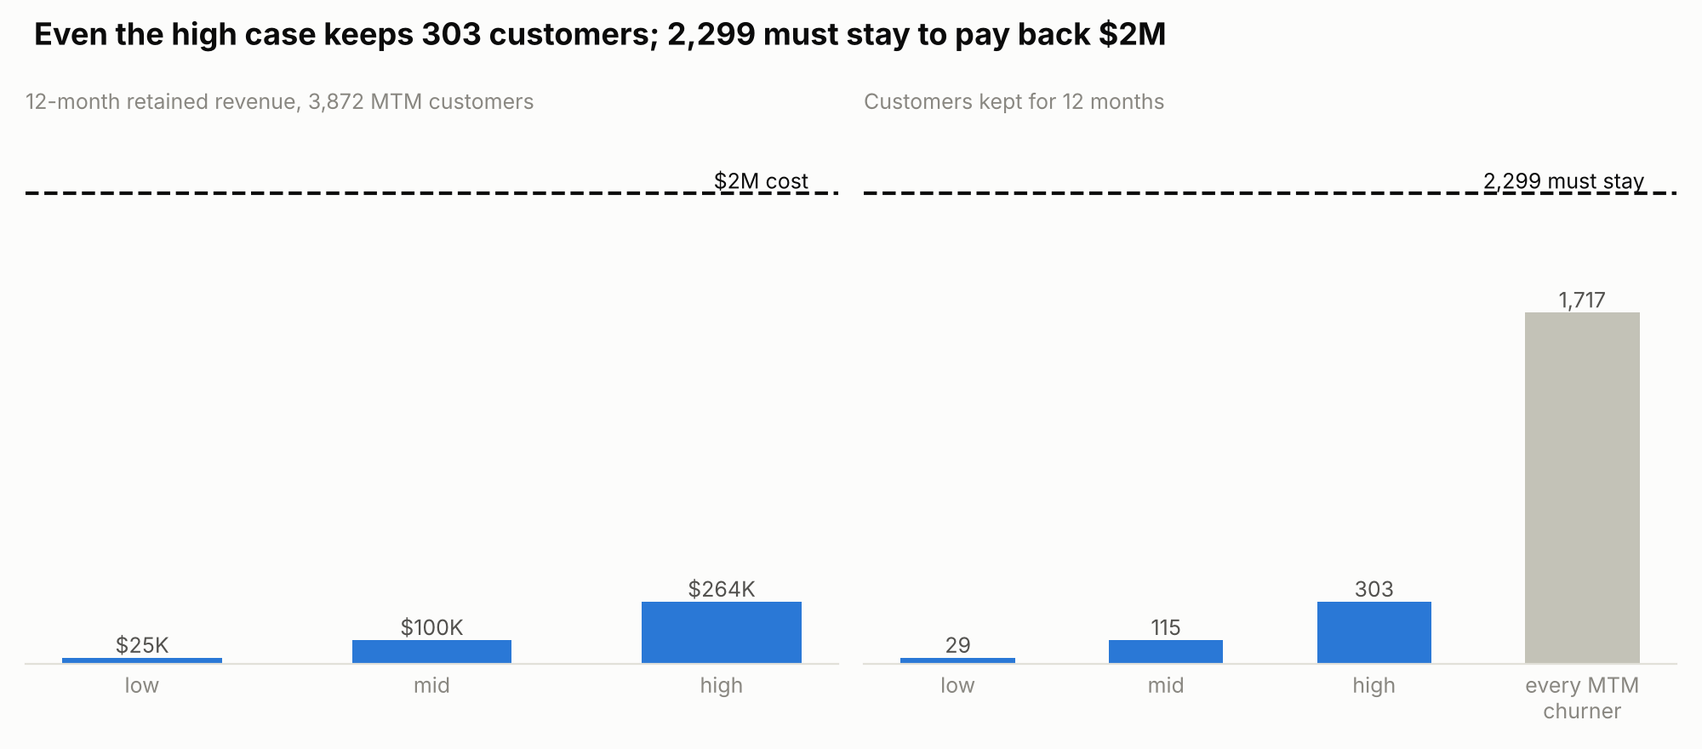
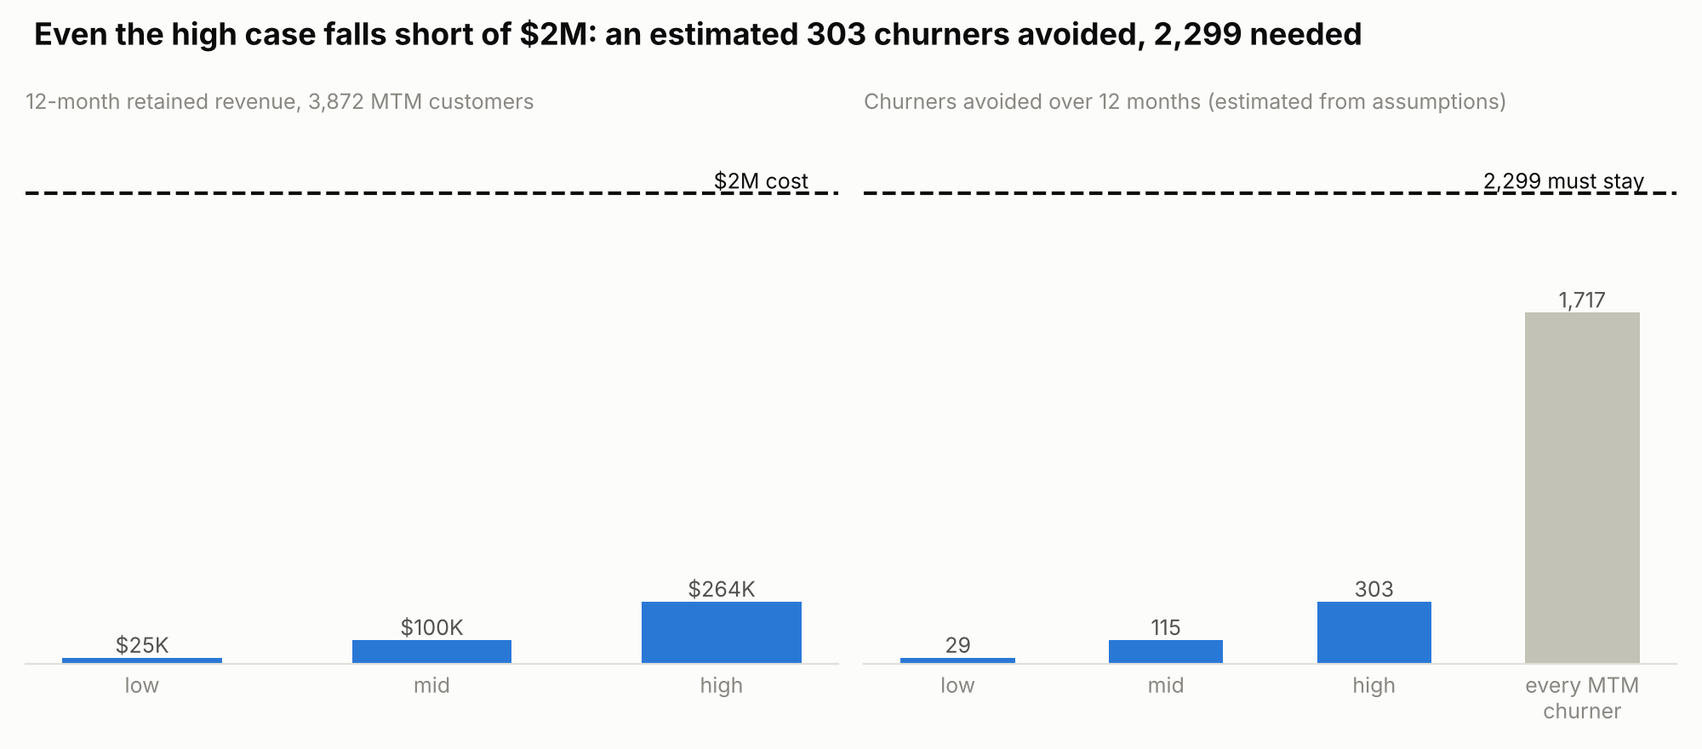
Address review: conditional recommendation, pilot size, tenure disclosures
- Headline now depends on the real month-to-month base, with ranges and a pilot size
- Drop unsupported low-case claim; report tenure-weighted gap and 61-72 month gap
- Soften wording, follow CLAUDE.md section order, add internet/payment gaps
- Sign-based within-contract driver directions; leak column rows_affected = 2,033

Claude-Session: https://claude.ai/code/session_01CdhEpiMWSa5yeb28nSnhaj

Changed region(s): [[0.186, 0.0307, 0.806, 0.0614], [0.527, 0.1227, 0.899, 0.1534]]

diff --git a/runs/2m-campaign/analysis.py b/runs/2m-campaign/analysis.py
@@ -6,6 +6,7 @@ Reads data/raw/telco_v2.csv (never writes there). Writes every deliverable in ru
 (user decision: "yes" is the main case; "no" is always computed as a sensitivity check).
 """
 import argparse, json
+from math import ceil
 from pathlib import Path
 
 import matplotlib
@@ -21,6 +22,8 @@ CASES = {"low": (0.10, 0.25), "mid": (0.20, 0.50), "high": (0.35, 0.75)}  # (tak
 MAX_REMOVED_SHARE = 0.05
 TOL = 0.20  # MonthlyCharges must be within +/-20% of TotalCharges / tenure
 TENURE_BINS, TENURE_LABELS = [-1, 12, 24, 48, 72], ["0-12", "13-24", "25-48", "49-72"]
+YEAR_BINS, YEAR_LABELS = [-1, 12, 24, 36, 48, 60, 72], ["0-12", "13-24", "25-36", "37-48", "49-60", "61-72"]
+Z_ALPHA, Z_POWER = 1.96, 0.8416  # pilot sizing: two-sided 5% test, 80% power
 
 # Chart palette (dataviz skill reference palette): accent, de-emphasis gray, ink, surface
 ACCENT, GRAY, INK, INK2, MUTED, GRID, SURFACE = ("#2a78d6", "#c3c2b7", "#0b0b0b", "#52514e",
@@ -130,6 +133,11 @@ def sizing(df):
                     "value_at_file_n": n * v_per_cust,
                     "value_per_1000_mtm": 1000 * v_per_cust,
                     "break_even_mtm_base": COST / v_per_cust}
+    # Pilot for the test_first range: offered vs not-offered groups, sized to detect the mid case's churn drop
+    # across everyone offered (take-up x share real x gap); two-sided 5% test, 80% power
+    p_off = churn_mtm - CASES["mid"][0] * CASES["mid"][1] * gap
+    pilot_per_group = ceil((Z_ALPHA + Z_POWER) ** 2 * (churn_mtm * (1 - churn_mtm) + p_off * (1 - p_off))
+                           / (churn_mtm - p_off) ** 2)
     if cases["low"]["value_at_file_n"] >= COST:
         rec = "fund"
     elif cases["high"]["value_at_file_n"] < COST:
@@ -140,6 +148,7 @@ def sizing(df):
             "churn_mtm": churn_mtm, "churn_1yr": churn_1yr, "gap": gap,
             "avg_monthly_charge_mtm_churners": arpu, "value_per_saved_customer_12m": value_per_saved,
             "customers_must_stay": must_stay,
+            "pilot_per_group": pilot_per_group, "pilot_churn_offered_mid_case": p_off,
             "max_value_if_all_mtm_churners_saved": int(mtm.churned.sum()) * value_per_saved,
             "cases": cases, "recommendation": rec}
 
@@ -204,9 +213,9 @@ def drivers(df):
                 mc = f(df).loc[d.index]  # focus group defined on the full data (same median)
                 if mc.sum() >= MIN_N and (~mc).sum() >= MIN_N:
                     within[c] = rate(d.churned[mc]) - rate(d.churned[~mc])
-        dirs = {direction(v) for v in within.values()}
+        signs = {v > 0 for v in within.values()}  # within contract: same sign in every contract type
         wc = ("not_checked" if var == "Contract" or not within else
-              dirs.pop() if len(dirs) == 1 and dirs <= {"higher", "lower"} else "mixed")
+              "higher" if signs == {True} else "lower" if signs == {False} else "mixed")
         rows.append({"variable": var, "focus_group": FOCUS_LABEL.get(var, "Yes"),
                      "churn_focus": rate(df.churned[m]), "churn_rest": rate(df.churned[~m]),
                      "diff_overall": diff, "direction_overall": direction(diff),
@@ -310,9 +319,9 @@ def chart_value(sz, path):
     style(a2)
     a2.set_yticks([])
     a2.set_ylim(0, sz["customers_must_stay"] * 1.15)
-    a2.set_title("Customers kept for 12 months", loc="left", fontsize=9, color=MUTED)
-    f.suptitle(f"Even the high case keeps {saved[2]:,.0f} customers; {sz['customers_must_stay']:,.0f} must stay "
-               "to pay back $2M", x=0.02, ha="left", fontsize=13, color=INK, weight="bold")
+    a2.set_title("Churners avoided over 12 months (estimated from assumptions)", loc="left", fontsize=9, color=MUTED)
+    f.suptitle(f"Even the high case falls short of $2M: an estimated {saved[2]:,.0f} churners avoided, "
+               f"{sz['customers_must_stay']:,.0f} needed", x=0.02, ha="left", fontsize=13, color=INK, weight="bold")
     f.tight_layout()
     f.savefig(path, dpi=200, facecolor=SURFACE)
     plt.close(f)
@@ -370,7 +379,8 @@ def write_findings(rec, counts, drv, path):
             {"column": "TotalCharges", "issue": "Stored as text; blanks are a single space (all tenure 0)",
              "rows_affected": counts["tc_blank"], "action": "Set to 0"},
             {"column": "RetentionOfferAccepted", "issue": "Filled only for churners; leaks the outcome",
-             "rows_affected": counts["raw_rows"], "action": "Column dropped from the analysis"},
+             "rows_affected": counts["leak_filled_churn_yes"] + counts["leak_filled_churn_no"],
+             "action": "Column dropped from the analysis"},
         ],
         "drivers": [{"variable": d["variable"], "direction_overall": d["direction_overall"],
                      "direction_within_contract": d["direction_within_contract"]} for d in drv],
@@ -379,39 +389,53 @@ def write_findings(rec, counts, drv, path):
 
 
 def write_recommendation(R, path):
-    s, s_no, c, tg = R["sizing"], R["sensitivity_dup_keep_no"]["sizing"], R["cleaning"], R["gap_within"]["tenure"]
+    s, s_no, c = R["sizing"], R["sensitivity_dup_keep_no"]["sizing"], R["cleaning"]
+    tg, ty = R["gap_within"]["tenure"], R["gap_within"]["tenure_12m_bins"]
     k = s["cases"]
-    REC = {"do_not_fund": "Do not fund", "fund": "Fund", "test_first": "Test first"}[s["recommendation"]]
-    t0, t3 = tg[TENURE_LABELS[0]], tg[TENURE_LABELS[-1]]
+    be_lo, be_mid, be_hi = (k[x]["break_even_mtm_base"] for x in ("low", "mid", "high"))
+    t0, t3, y6 = tg[TENURE_LABELS[0]], tg[TENURE_LABELS[-1]], ty[YEAR_LABELS[-1]]
+    inet = {g: v["gap"] for g, v in R["gap_within"]["InternetService"].items()}
+    pay = [v["gap"] for v in R["gap_within"]["PaymentMethod"].values()]
     app = next(d for d in R["drivers"] if d["variable"] == "LoyaltyAppUser")
+    be_shift = s_no["cases"]["mid"]["break_even_mtm_base"] / be_mid - 1
     same = s_no["recommendation"] == s["recommendation"]
     lines = [
         "# $2M month-to-month → 1-year campaign: recommendation", "",
         "For: VP of Marketing. Bar: the campaign must return ≥ $2M in retained revenue within 12 months.", "",
-        f"## Recommendation: **{REC}** at the customer base we can see", "",
-        f"In the data we have ({s['n_mtm']:,} month-to-month customers), even the high case returns "
-        f"**{money(k['high']['value_at_file_n'])}**, well under $2M. To pay back $2M, "
-        f"**{s['customers_must_stay']:,.0f} customers must stay** who would otherwise have left. Even if every "
-        f"month-to-month customer who churned ({s['n_mtm_churned']:,}) stayed, that is only "
-        f"{money(s['max_value_if_all_mtm_churners_saved'])}. **This flips only if the real month-to-month base is much larger "
-        f"than this file:** at least {k['high']['break_even_mtm_base']:,.0f} customers (high case), "
-        f"{k['mid']['break_even_mtm_base']:,.0f} (mid) or {k['low']['break_even_mtm_base']:,.0f} (low).", "",
+        f"## Recommendation: **Do not fund, unless the month-to-month base is at least {be_hi:,.0f} customers**", "",
+        f"At the only base we can see ({s['n_mtm']:,} month-to-month customers), even the high case returns "
+        f"**{money(k['high']['value_at_file_n'])}**. To pay back $2M, **{s['customers_must_stay']:,.0f} customers who "
+        f"would have left must stay**. Even if all {s['n_mtm_churned']:,} month-to-month churners stayed, that is only "
+        f"{money(s['max_value_if_all_mtm_churners_saved'])}. The answer depends on the real base size, which is not in the data:", "",
+        f"- **Below {be_hi:,.0f}:** do not fund.",
+        f"- **{be_hi:,.0f} to {be_lo:,.0f}:** test first. Pilot: offer the 1-year contract to {s['pilot_per_group']:,} "
+        f"month-to-month customers and hold out {s['pilot_per_group']:,} more, chosen at random. That is enough to detect the "
+        f"mid case ({pct(s['churn_mtm'])} → {pct(s['pilot_churn_offered_mid_case'])} churn across everyone offered).",
+        f"- **Above {be_lo:,.0f}:** fund. It meets the $2M bar even under the low-case assumptions.", "",
         "## What we found", "",
         f"- Month-to-month customers churn at **{pct(s['churn_mtm'])}** vs **{pct(s['churn_1yr'])}** on one-year "
         f"contracts, a {s['gap'] * 100:.1f}-point gap (chart 1).",
-        f"- The gap is **associated with** tenure: it shrinks from {t0['gap'] * 100:.1f} points for customers with "
-        f"0–12 months' tenure to {t3['gap'] * 100:.1f} points at 49–72 months (chart 2). This suggests part of the "
-        "gap may reflect who chooses each contract rather than the contract itself.",
+        f"- The gap is smaller for longer-tenure customers: {t0['gap'] * 100:.1f} points at 0–12 months, "
+        f"{t3['gap'] * 100:.1f} at 49–72 (chart 2), and {y6['gap'] * 100:.1f} at 61–72. But half the month-to-month "
+        f"customers ({R['mtm_tenure_mix']['0-12']:.0%}) are in their first year, so weighted by their tenure mix the "
+        f"gap is {R['gap_weighted_by_mtm_tenure_mix'] * 100:.1f} points, about the same as the raw gap.",
+        f"- The gap holds within internet types (DSL {inet['DSL'] * 100:.0f}, fiber {inet['Fiber optic'] * 100:.0f}, "
+        f"no internet {inet['No'] * 100:.0f} points) and payment methods ({min(pay) * 100:.0f}–{max(pay) * 100:.0f} points).",
         f"- A month-to-month churner pays **${s['avg_monthly_charge_mtm_churners']:.2f}/month** on average, "
-        f"so each customer kept is worth **${s['value_per_saved_customer_12m']:,.0f}** over 12 months.",
-        f"- Customers kept: low {k['low']['saved_customers_at_file_n']:,.0f}, mid {k['mid']['saved_customers_at_file_n']:,.0f}, "
-        f"high {k['high']['saved_customers_at_file_n']:,.0f}, against {s['customers_must_stay']:,.0f} needed (chart 3).",
-        f"- Loyalty app users churn more overall ({pct(app['churn_focus'])} vs {pct(app['churn_rest'])}) but **less** "
-        f"within every contract type (month-to-month: {app['diff_within_contract']['Month-to-month'] * 100:+.1f} points), "
-        f"a reversal that reflects contract mix: {R['loyalty_app_share_mtm']['Yes']:.0%} of them are month-to-month vs "
-        f"{R['loyalty_app_share_mtm']['No']:.0%} of non-users. Compare within contract before using it for targeting.", "",
+        f"so each churner avoided is worth **${s['value_per_saved_customer_12m']:,.0f}** over 12 months.",
+        f"- Loyalty app users churn more overall ({pct(app['churn_focus'])} vs {pct(app['churn_rest'])}) but less within "
+        f"every contract type. The reversal lines up with contract mix: {R['loyalty_app_share_mtm']['Yes']:.0%} of users "
+        f"are month-to-month vs {R['loyalty_app_share_mtm']['No']:.0%} of non-users.", "",
+        "## How sure we are", "",
+        "- **Sure:** at this file's scale the answer is no. Even avoiding every month-to-month churner falls short of $2M.",
+        "- **Not sure:** the base size, the take-up and how much of the gap a contract switch would really change. The data "
+        "cannot separate who chooses a 1-year contract from what the contract does. Tenure does not narrow the gap on "
+        "average, so the data does not favor the low or the high case.",
+        f"- **The duplicate choice barely matters:** keeping the Churn=No copies gives {pct(s_no['churn_mtm'])} vs "
+        f"{pct(s_no['churn_1yr'])} and moves the break-even bases by {be_shift:+.0%}. "
+        f"Recommendation {'unchanged' if same else 'CHANGES to ' + s_no['recommendation']}.", "",
         "## Value range (12-month retained revenue)", "",
-        "| Case | Take-up | Share of gap that's real | Customers kept | Value (this file) | Per 1,000 MTM customers | MTM base to break even |",
+        "| Case | Take-up | Share of gap that's real | Churners avoided | Value (this file) | Per 1,000 MTM customers | MTM base to break even |",
         "|---|---|---|---|---|---|---|"]
     for name in ("low", "mid", "high"):
         v = k[name]
@@ -420,34 +444,25 @@ def write_recommendation(R, path):
                      f"${v['value_per_1000_mtm']:,.0f} | {v['break_even_mtm_base']:,.0f} |")
     lines += [
         "", "Formula: MTM customers × take-up × churn gap × share real × avg monthly charge of MTM churners × 12. "
-        "Assumptions are from the brief; none are measured. A kept customer is counted as paying for 12 full "
-        "months, and the $2M already includes the discount.", "",
-        "## How sure we are", "",
-        f"- **Sure:** at this file's scale the answer is no. Even keeping every month-to-month churner falls short of $2M.",
-        "- **Not sure:** the real size of the base, the take-up rate and how much of the gap is real. None of these is "
-        "in the data. The tenure pattern suggests the low case is the more likely one.",
-        f"- **Duplicate choice doesn't matter:** keeping the Churn=No row instead gives a {pct(s_no['churn_mtm'])} vs "
-        f"{pct(s_no['churn_1yr'])} gap and a high case of {money(s_no['cases']['high']['value_at_file_n'])}. "
-        f"Recommendation {'unchanged' if same else 'CHANGES to ' + s_no['recommendation']}.", "",
+        "Assumptions (none measured): take-up and share real are from the brief; each churner avoided pays for 12 full "
+        "months; the $2M includes the discount; the Churn flag (left in the last month) is treated as a one-time "
+        "difference, not a monthly rate repeated for 12 months.", "",
         "## Data issues", "",
         f"- {c['dup_ids']} customer IDs appeared twice, with the pairs disagreeing on Churn. We kept the Churn=Yes row "
         f"(your decision) and removed {c['dup_removed']} rows.",
         f"- {c['mc_high']} MonthlyCharges values looked ×100: {c['mc_fixed']} were divided by 100 and "
-        f"{c['mc_removed']} removed. A further {c['mc_inconsistent']} normal-range values don't match "
-        "TotalCharges ÷ tenure; they were flagged and left unchanged.",
-        f"- {c['tc_blank']} blank TotalCharges (new customers) were set to 0. RetentionOfferAccepted leaks the outcome "
-        "and was dropped.",
-        f"- In total {c['removed_rows']} of {c['raw_rows']:,} rows were removed ({c['removed_share']:.1%}). See `cleaning_log.md`.", "",
+        f"{c['mc_removed']} removed. Another {c['mc_inconsistent']} don't match TotalCharges ÷ tenure; they were flagged "
+        f"and left as is. {c['tc_blank']} blank TotalCharges (new customers) were set to 0. RetentionOfferAccepted "
+        "leaks the outcome and was dropped.",
+        f"- {c['removed_rows']} of {c['raw_rows']:,} rows removed ({c['removed_share']:.1%}). See `cleaning_log.md`.", "",
         "## Risks", "",
-        "- **Base size:** if the file is a sample, the answer could change to test_first or fund. This is the "
-        "biggest risk to this recommendation.",
-        "- The 1-year gap comes from observational data. Customers moved over by a discount may churn more than those "
-        "who chose a 1-year contract, and those who would have stayed anyway may take the discount too.",
-        "- Customers who take a 1-year contract can still leave when it ends, so value beyond 12 months is not counted.", "",
+        "- **Base size** is the biggest risk: it alone decides between do not fund, test first and fund.",
+        "- The gap comes from observational data. Customers moved over by a discount may churn more than those who chose "
+        "a 1-year contract, and customers who would have stayed anyway may take the discount too.",
+        "- Customers can leave when the 1-year contract ends; value beyond 12 months is not counted.", "",
         "## Next step", "",
-        f"**Give us the real number of month-to-month customers.** If it is below {k['high']['break_even_mtm_base']:,.0f}, "
-        f"do not fund. If it is above {k['low']['break_even_mtm_base']:,.0f}, the campaign pays back even in the low "
-        "case. Between the two, run a small pilot to measure take-up and the real churn change before committing $2M.",
+        f"**Give us the real number of month-to-month customers.** We then apply the ranges above. If it is between "
+        f"{be_hi:,.0f} and {be_lo:,.0f}, run the pilot before committing $2M.",
     ]
     path.write_text("\n".join(lines) + "\n")
 
@@ -472,6 +487,12 @@ def main():
     gaps["tenure"] = gaps.pop("tenure_group")
     if min(g["gap"] for g in gaps["tenure"].values()) < 0.10:
         raise SystemExit("STOP: MTM vs 1-year gap < 10 points in a tenure group. Ask the user.")
+    # Disclosed, not a stop (user decision): with 12-month bins the oldest group's gap falls below 10 points
+    df["tenure_year"] = pd.cut(df.tenure, YEAR_BINS, labels=YEAR_LABELS)
+    gaps["tenure_12m_bins"] = gap_within(df, "tenure_year")
+    mtm_mix = df[df.Contract == "Month-to-month"].tenure_group.value_counts(normalize=True)
+    weighted_gap = float(sum(gaps["tenure"][k]["gap"] * mtm_mix[k] for k in TENURE_LABELS))
+    mtm_share_61_72 = float(df[df.Contract == "Month-to-month"].tenure_year.eq("61-72").mean())
     drv = drivers(df)
     churn_by_contract = {k: {"customers": int(v.size), "churned": int(v.sum()), "churn_rate": float(v.mean())}
                          for k, v in df.groupby("Contract").churned}
@@ -479,12 +500,14 @@ def main():
     R = {"dup_keep": dup_keep, "profile_raw": profile(raw), "cleaning": counts,
          "overall_churn_rate": rate(df.churned), "churn_by_contract": churn_by_contract,
          "sizing": sz, "gap_within": gaps, "drivers": drv,
+         "mtm_tenure_mix": {k: float(v) for k, v in mtm_mix.items()},
+         "gap_weighted_by_mtm_tenure_mix": weighted_gap, "mtm_share_tenure_61_72": mtm_share_61_72,
          "loyalty_app_share_mtm": {k: float(v) for k, v in
                                    df.groupby("LoyaltyAppUser").Contract.apply(lambda s: s.eq("Month-to-month").mean()).items()},
          f"sensitivity_dup_keep_{other}": {"cleaning": counts_o, "sizing": sz_o}}
 
     OUT.mkdir(parents=True, exist_ok=True)
-    df.drop(columns=["churned", "tenure_group"]).to_csv(OUT / "clean.csv", index=False)
+    df.drop(columns=["churned", "tenure_group", "tenure_year"]).to_csv(OUT / "clean.csv", index=False)
     write_cleaning_log(log, counts, dup_keep, OUT / "cleaning_log.md")
     write_findings(sz["recommendation"], counts, drv, OUT / "findings.json")
     (OUT / "results.json").write_text(json.dumps(R, indent=2) + "\n")

diff --git a/runs/2m-campaign/recommendation.md b/runs/2m-campaign/recommendation.md
@@ -2,47 +2,50 @@
 
 For: VP of Marketing. Bar: the campaign must return ≥ $2M in retained revenue within 12 months.
 
-## Recommendation: **Do not fund** at the customer base we can see
+## Recommendation: **Do not fund, unless the month-to-month base is at least 29,377 customers**
 
-In the data we have (3,872 month-to-month customers), even the high case returns **$264K**, well under $2M. To pay back $2M, **2,299 customers must stay** who would otherwise have left. Even if every month-to-month customer who churned (1,717) stayed, that is only $1.49M. **This flips only if the real month-to-month base is much larger than this file:** at least 29,377 customers (high case), 77,114 (mid) or 308,457 (low).
+At the only base we can see (3,872 month-to-month customers), even the high case returns **$264K**. To pay back $2M, **2,299 customers who would have left must stay**. Even if all 1,717 month-to-month churners stayed, that is only $1.49M. The answer depends on the real base size, which is not in the data:
+
+- **Below 29,377:** do not fund.
+- **29,377 to 308,457:** test first. Pilot: offer the 1-year contract to 4,321 month-to-month customers and hold out 4,321 more, chosen at random. That is enough to detect the mid case (44.3% → 41.4% churn across everyone offered).
+- **Above 308,457:** fund. It meets the $2M bar even under the low-case assumptions.
 
 ## What we found
 
 - Month-to-month customers churn at **44.3%** vs **14.5%** on one-year contracts, a 29.8-point gap (chart 1).
-- The gap is **associated with** tenure: it shrinks from 39.4 points for customers with 0–12 months' tenure to 11.7 points at 49–72 months (chart 2). This suggests part of the gap may reflect who chooses each contract rather than the contract itself.
-- A month-to-month churner pays **$72.49/month** on average, so each customer kept is worth **$870** over 12 months.
-- Customers kept: low 29, mid 115, high 303, against 2,299 needed (chart 3).
-- Loyalty app users churn more overall (33.6% vs 24.9%) but **less** within every contract type (month-to-month: -22.6 points), a reversal that reflects contract mix: 86% of them are month-to-month vs 29% of non-users. Compare within contract before using it for targeting.
+- The gap is smaller for longer-tenure customers: 39.4 points at 0–12 months, 11.7 at 49–72 (chart 2), and 6.9 at 61–72. But half the month-to-month customers (51%) are in their first year, so weighted by their tenure mix the gap is 30.9 points, about the same as the raw gap.
+- The gap holds within internet types (DSL 21, fiber 33, no internet 17 points) and payment methods (20–34 points).
+- A month-to-month churner pays **$72.49/month** on average, so each churner avoided is worth **$870** over 12 months.
+- Loyalty app users churn more overall (33.6% vs 24.9%) but less within every contract type. The reversal lines up with contract mix: 86% of users are month-to-month vs 29% of non-users.
+
+## How sure we are
+
+- **Sure:** at this file's scale the answer is no. Even avoiding every month-to-month churner falls short of $2M.
+- **Not sure:** the base size, the take-up and how much of the gap a contract switch would really change. The data cannot separate who chooses a 1-year contract from what the contract does. Tenure does not narrow the gap on average, so the data does not favor the low or the high case.
+- **The duplicate choice barely matters:** keeping the Churn=No copies gives 41.7% vs 10.9% and moves the break-even bases by -4%. Recommendation unchanged.
 
 ## Value range (12-month retained revenue)
 
-| Case | Take-up | Share of gap that's real | Customers kept | Value (this file) | Per 1,000 MTM customers | MTM base to break even |
+| Case | Take-up | Share of gap that's real | Churners avoided | Value (this file) | Per 1,000 MTM customers | MTM base to break even |
 |---|---|---|---|---|---|---|
 | Low | 10% | 25% | 29 | $25K | $6,484 | 308,457 |
 | Mid | 20% | 50% | 115 | $100K | $25,936 | 77,114 |
 | High | 35% | 75% | 303 | $264K | $68,081 | 29,377 |
 
-Formula: MTM customers × take-up × churn gap × share real × avg monthly charge of MTM churners × 12. Assumptions are from the brief; none are measured. A kept customer is counted as paying for 12 full months, and the $2M already includes the discount.
-
-## How sure we are
-
-- **Sure:** at this file's scale the answer is no. Even keeping every month-to-month churner falls short of $2M.
-- **Not sure:** the real size of the base, the take-up rate and how much of the gap is real. None of these is in the data. The tenure pattern suggests the low case is the more likely one.
-- **Duplicate choice doesn't matter:** keeping the Churn=No row instead gives a 41.7% vs 10.9% gap and a high case of $274K. Recommendation unchanged.
+Formula: MTM customers × take-up × churn gap × share real × avg monthly charge of MTM churners × 12. Assumptions (none measured): take-up and share real are from the brief; each churner avoided pays for 12 full months; the $2M includes the discount; the Churn flag (left in the last month) is treated as a one-time difference, not a monthly rate repeated for 12 months.
 
 ## Data issues
 
 - 211 customer IDs appeared twice, with the pairs disagreeing on Churn. We kept the Churn=Yes row (your decision) and removed 211 rows.
-- 200 MonthlyCharges values looked ×100: 197 were divided by 100 and 3 removed. A further 66 normal-range values don't match TotalCharges ÷ tenure; they were flagged and left unchanged.
-- 11 blank TotalCharges (new customers) were set to 0. RetentionOfferAccepted leaks the outcome and was dropped.
-- In total 214 of 7,254 rows were removed (3.0%). See `cleaning_log.md`.
+- 200 MonthlyCharges values looked ×100: 197 were divided by 100 and 3 removed. Another 66 don't match TotalCharges ÷ tenure; they were flagged and left as is. 11 blank TotalCharges (new customers) were set to 0. RetentionOfferAccepted leaks the outcome and was dropped.
+- 214 of 7,254 rows removed (3.0%). See `cleaning_log.md`.
 
 ## Risks
 
-- **Base size:** if the file is a sample, the answer could change to test_first or fund. This is the biggest risk to this recommendation.
-- The 1-year gap comes from observational data. Customers moved over by a discount may churn more than those who chose a 1-year contract, and those who would have stayed anyway may take the discount too.
-- Customers who take a 1-year contract can still leave when it ends, so value beyond 12 months is not counted.
+- **Base size** is the biggest risk: it alone decides between do not fund, test first and fund.
+- The gap comes from observational data. Customers moved over by a discount may churn more than those who chose a 1-year contract, and customers who would have stayed anyway may take the discount too.
+- Customers can leave when the 1-year contract ends; value beyond 12 months is not counted.
 
 ## Next step
 
-**Give us the real number of month-to-month customers.** If it is below 29,377, do not fund. If it is above 308,457, the campaign pays back even in the low case. Between the two, run a small pilot to measure take-up and the real churn change before committing $2M.
+**Give us the real number of month-to-month customers.** We then apply the ranges above. If it is between 29,377 and 308,457, run the pilot before committing $2M.
